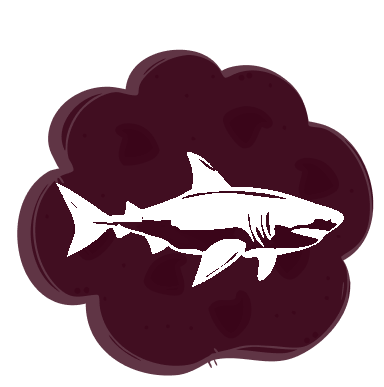
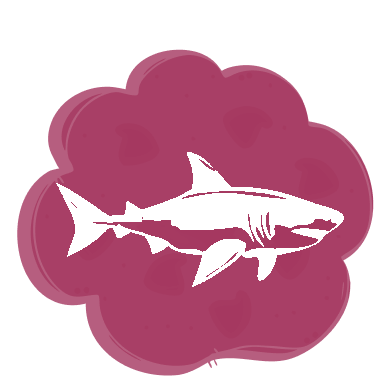
style: update memory card pink

diff --git a/memory-game/asset-palette.test.js b/memory-game/asset-palette.test.js
@@ -9,7 +9,7 @@ const CARD_ASSETS = [
   "Seagrass.png", "MantaRay.png", "Whale.png", "Coral.png",
 ];
 
-const EXPECTED_COLORS = new Set(["3a0519", "ffffff"]);
+const EXPECTED_COLORS = new Set(["a53860", "ffffff"]);
 
 function paeth(left, above, upperLeft) {
   const estimate = left + above - upperLeft;
@@ -66,7 +66,7 @@ function decodeRgbaPng(buffer) {
   return pixels;
 }
 
-test("every marine card uses only the requested #3A0519 and white", async () => {
+test("every marine card uses only the requested #A53860 and white", async () => {
   for (const asset of CARD_ASSETS) {
     const pixels = decodeRgbaPng(await readFile(`assets/${asset}`));
     const colors = new Set();
@@ -78,7 +78,7 @@ test("every marine card uses only the requested #3A0519 and white", async () => 
   }
 });
 
-test("the cookie back uses the requested #3A0519", async () => {
+test("the cookie back uses the requested #A53860", async () => {
   const cookie = await readFile("assets/cookie-card.svg", "utf8");
-  assert.match(cookie, /fill="#3A0519"/);
+  assert.match(cookie, /fill="#A53860"/);
 });
